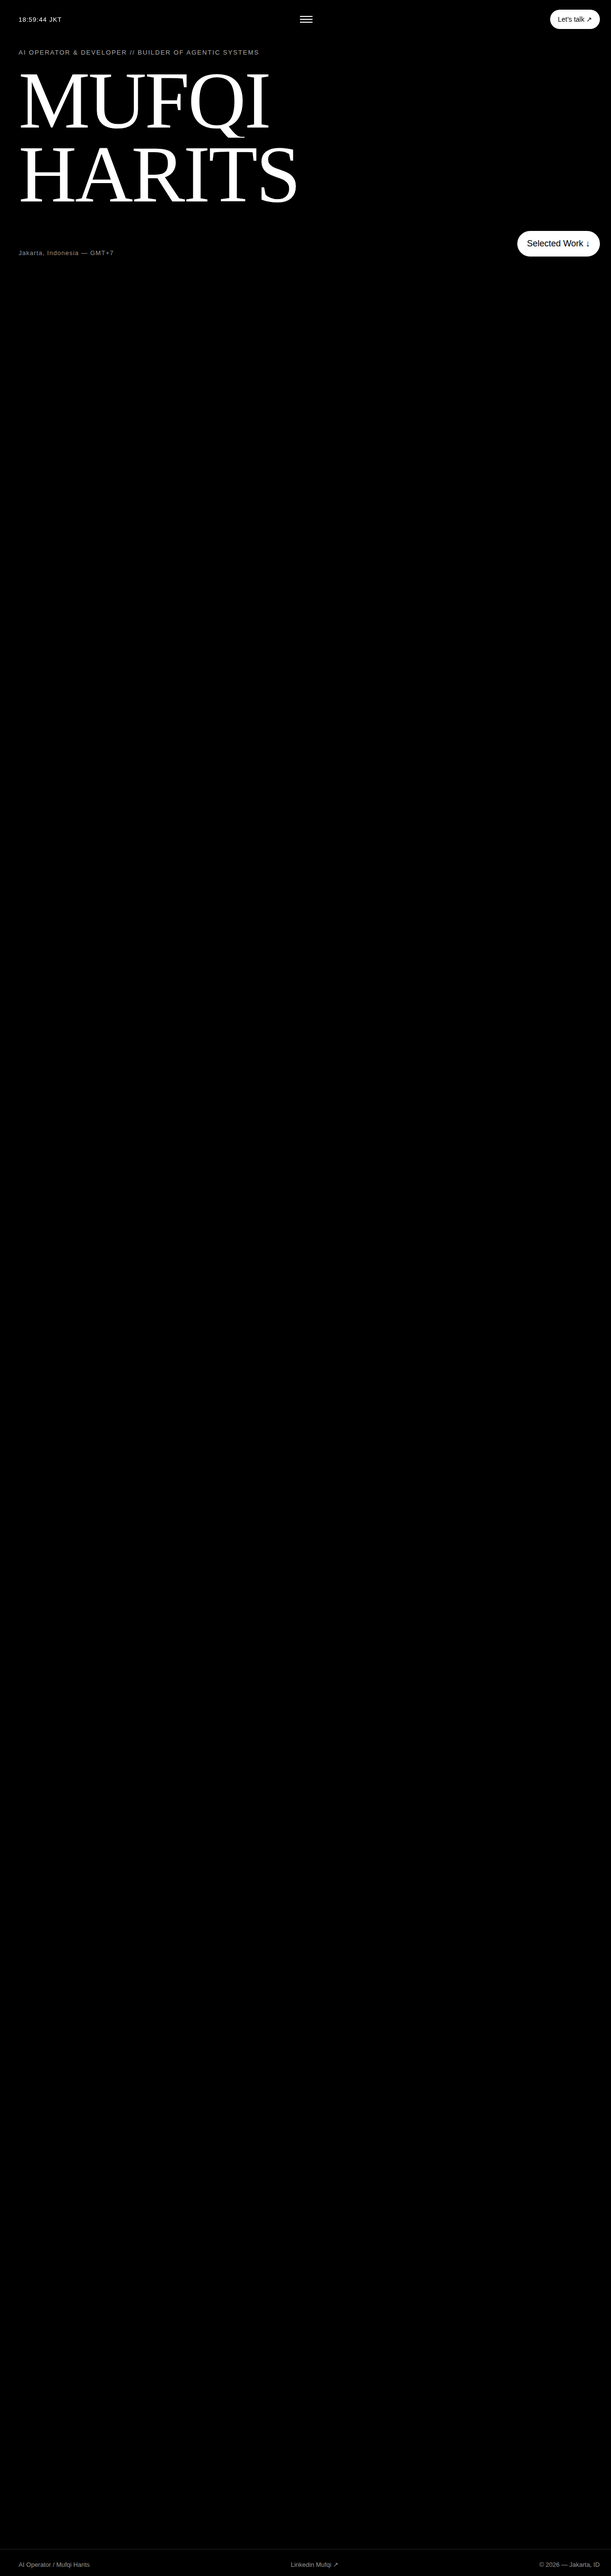
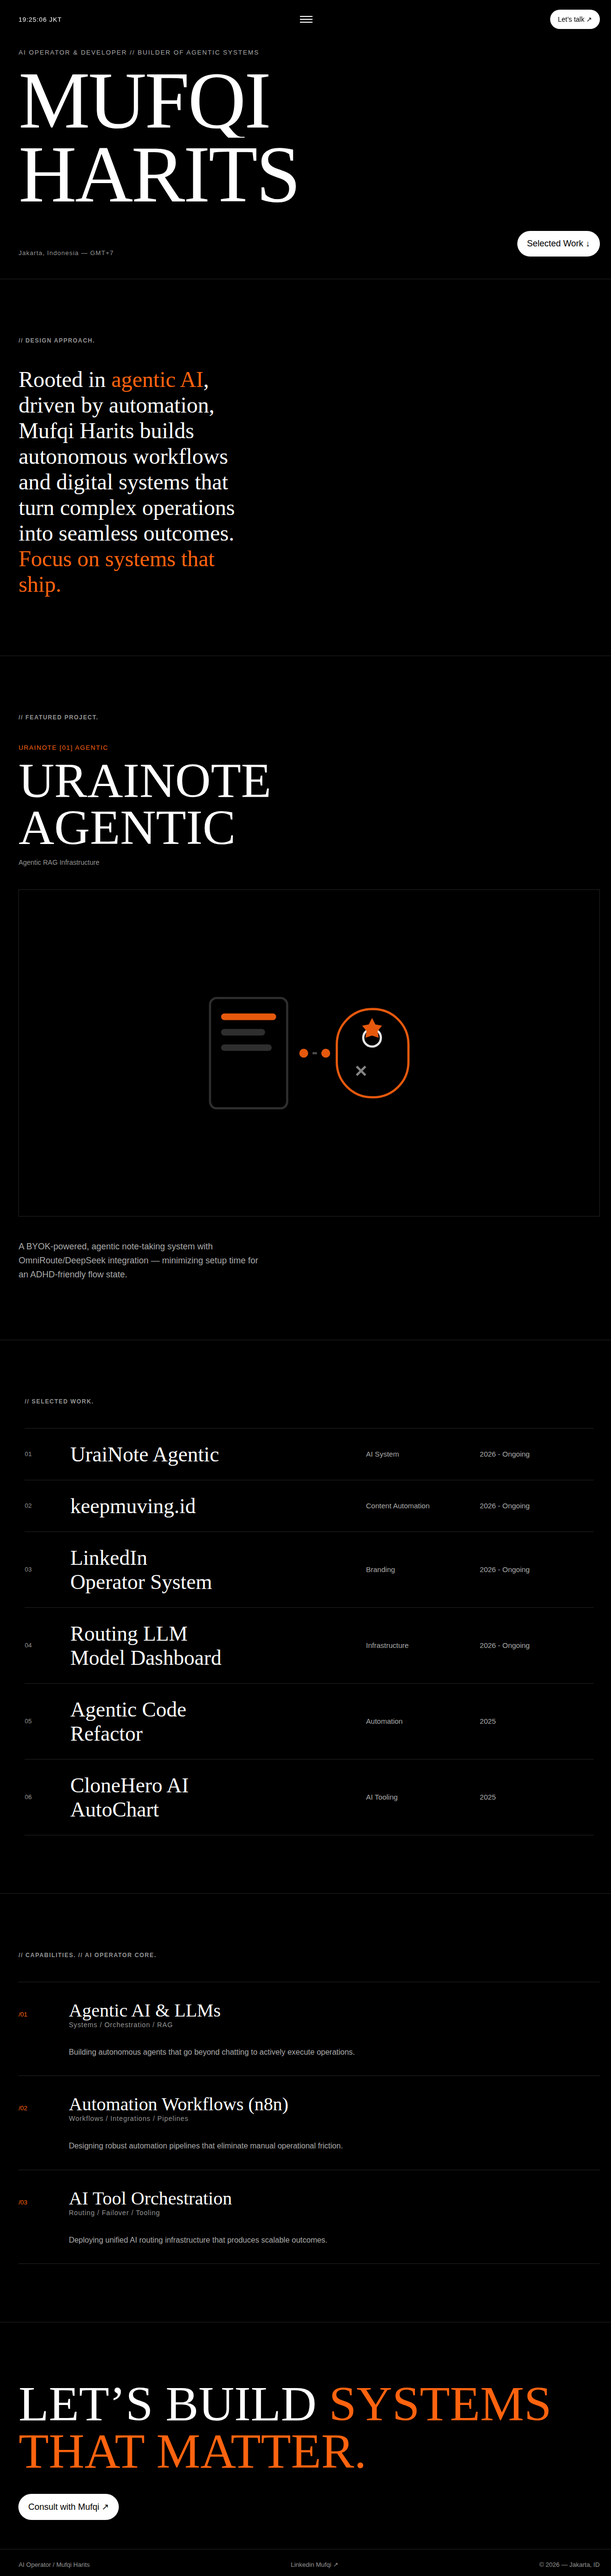
fix: replace truncated v2 preview with complete full-page screenshot
- preview-v2-full.png: re-captured full page (5332px tall) after scrolling through all sections so reveal animations render — now shows hero to footer completely
- remove unused preview-v2-hero.png
- README: note full capture coverage

diff --git a/README.md b/README.md
@@ -35,7 +35,7 @@ Currently focused on: AI integration, automation workflows, and personal product
 
 ## V2 — Midnight Ember (Dark Style)
 
-Dark variant of the live Lightvela design: pure black canvas, white serif display type, warm ember-orange accent `#ff630f`.
+Dark variant of the live Lightvela design: pure black canvas, white serif display type, warm ember-orange accent `#ff630f`. Full-page capture (5332px): hero → design approach → featured project → selected work → capabilities → contact → footer.
 
 ![V2 Preview](v2-dark-style/preview-v2-full.png)
 
@@ -43,6 +43,5 @@ Dark variant of the live Lightvela design: pure black canvas, white serif displa
 |------|-------------|
 | `v2-dark-style/index.html` | Full standalone V2 page |
 | `v2-dark-style/preview-v2-full.png` | Full-page screenshot |
-| `v2-dark-style/preview-v2-hero.png` | Hero screenshot |
 
 Sections: Hero → Design Approach → Featured Project (UraiNote Agentic) → Selected Work (6 projects) → Capabilities → Contact.
